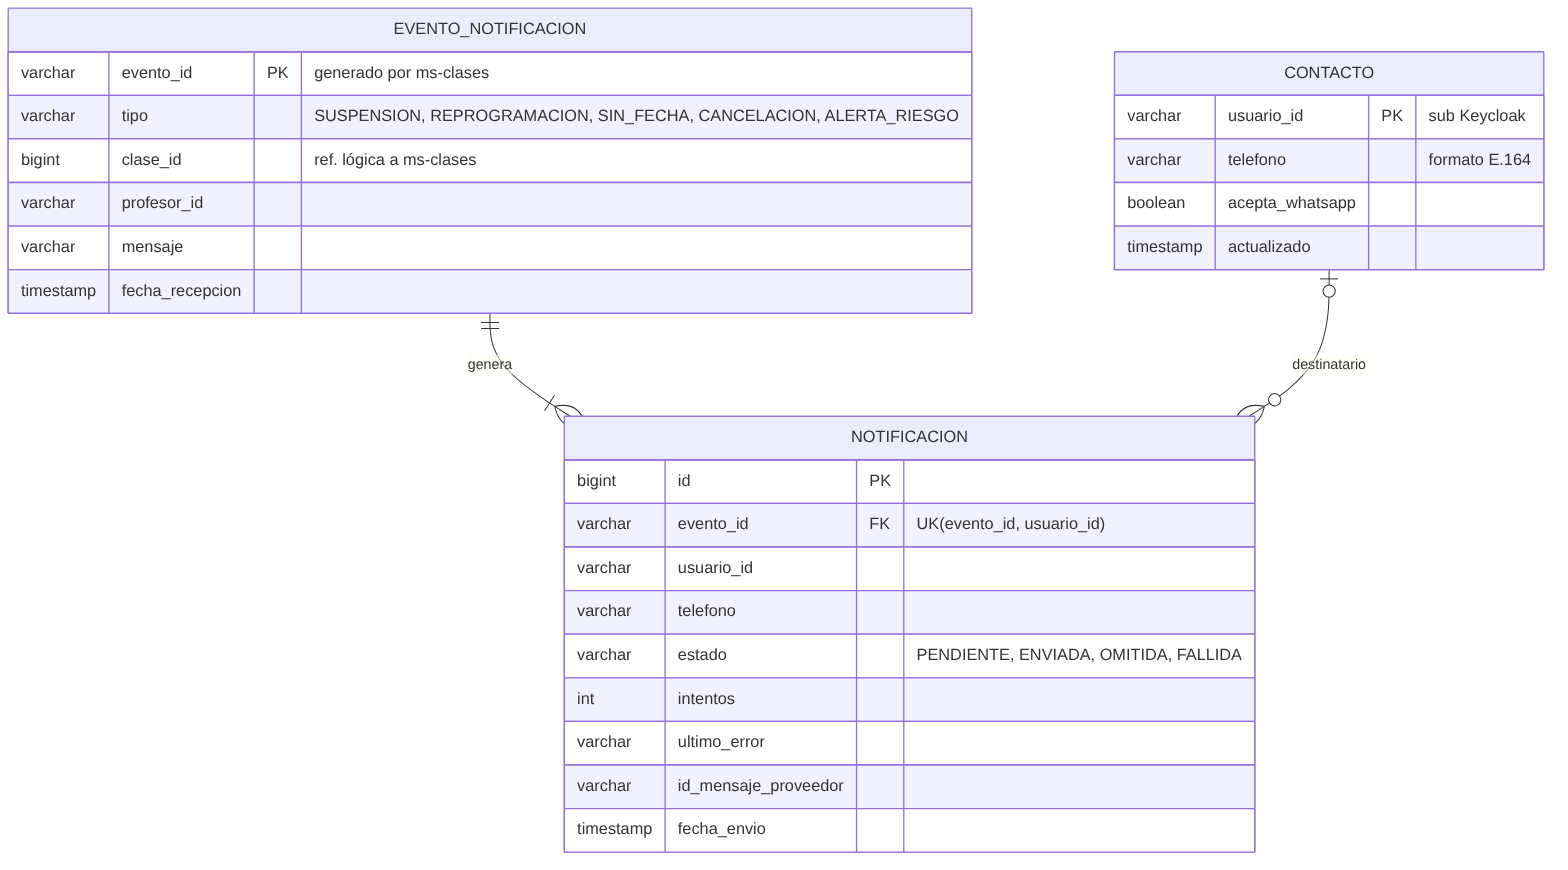
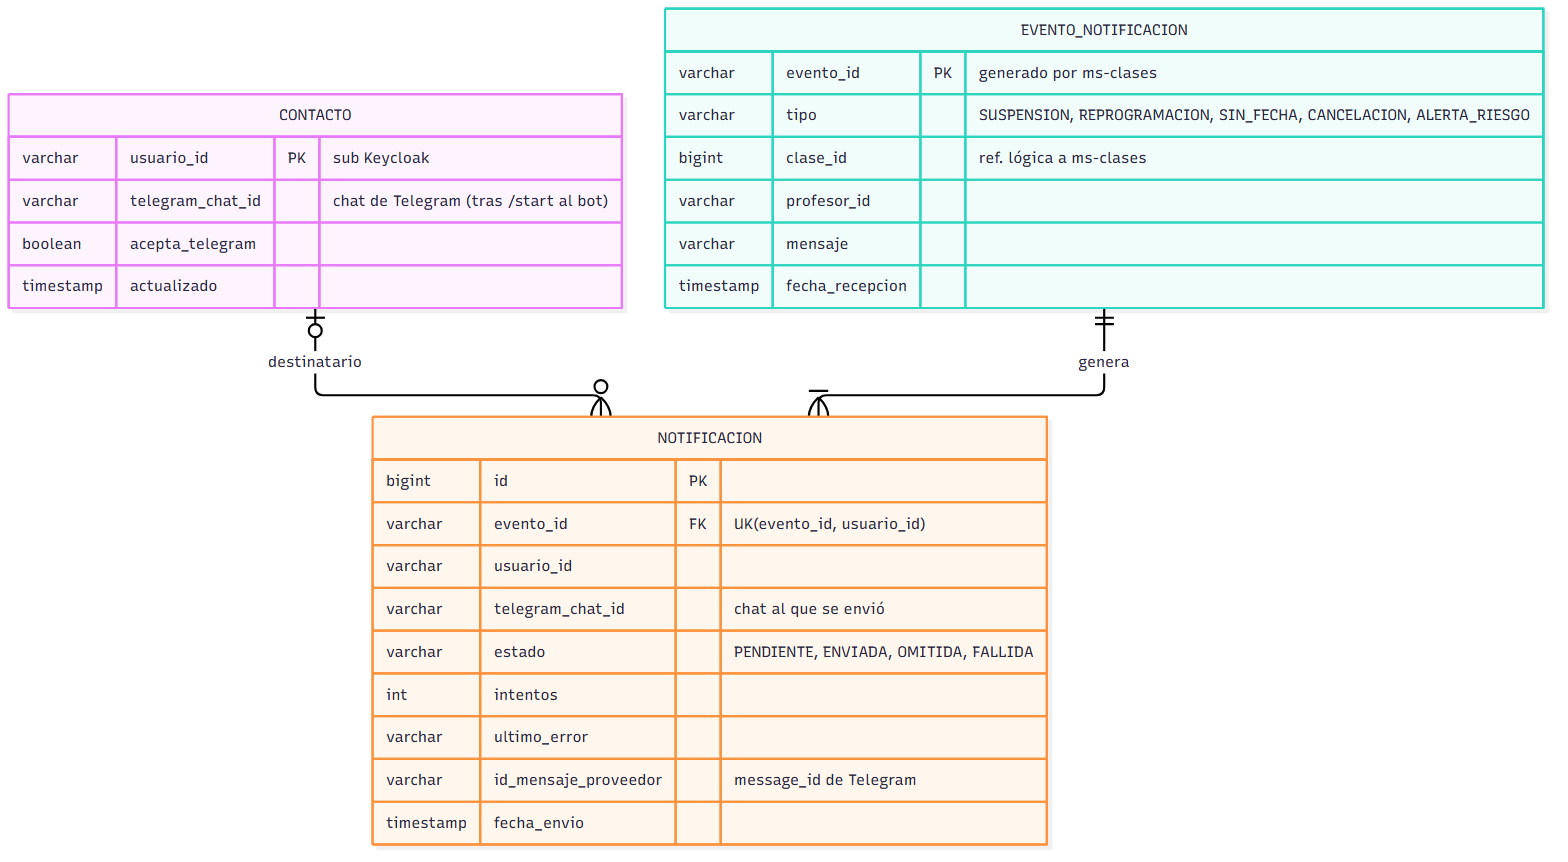
Diagramas y documentación al día
- C1 y C2: Telegram Bot API; C2 con los dos contenedores de PostgreSQL.
- Estados: transiciones que faltaban (EN_RIESGO -> REPROGRAMADA, REPROGRAMADA -> REPROGRAMADA, SUSPENDIDA -> CANCELADA).
- DER clases sin inscripcion.fecha_baja (no existe); DER notificaciones con el chat de Telegram.
- Propuesta, README, contratos y cumplimiento actualizados; PNG regenerados.

diff --git a/README.md b/README.md
@@ -14,7 +14,7 @@ La propuesta completa (funcionalidades F01–F15, reglas RN01–RN16, diagramas 
 | `ms-actividades/` | Catálogo: tipos de actividad y criterios climáticos, espacios, ejercicios | 8081 |
 | `ms-clases/` | Clases, inscripciones, estados, historial; orquesta la evaluación climática | 8082 |
 | `ms-clima/` | Pronóstico de Open-Meteo y evaluación APTA / EN_RIESGO / NO_APTA | 8083 |
-| `ms-notificaciones/` | Contactos, consentimiento y avisos por WhatsApp | 8084 |
+| `ms-notificaciones/` | Contactos, consentimiento y avisos por Telegram | 8084 |
 | `infra/` | Script de bases de PostgreSQL y realm de Keycloak | — |
 | `postman/` | Colección y entorno de Postman | — |
 
@@ -42,7 +42,10 @@ Para empezar de cero (borra las bases): `docker compose down -v`.
 1. Abrir la carpeta del repo en IntelliJ (detecta el `pom.xml` raíz e importa los 6 proyectos).
 2. Instalar la librería común en tu `.m2`: en la ventana *Maven* → `climafit-commons` → *Lifecycle* → `install`.
    Hay que repetirlo cada vez que cambia `climafit-commons`.
-3. Levantar solo la infraestructura: `docker compose up -d postgres keycloak`.
+3. Levantar solo la infraestructura, con los puertos de las bases abiertos para tu máquina:
+   `docker compose -f docker-compose.yml -f docker-compose.dev.yml up -d postgres postgres-actividades keycloak`.
+   `actividades_db` queda en `localhost:5433` y las demás bases en `localhost:5432`. En el despliegue normal
+   (`docker compose up`) las bases no tienen puerto publicado: solo se llega desde la red interna de Docker.
 4. Ejecutar la clase `*Application` del servicio. Los valores por defecto de su `application.yml` apuntan a `localhost`.
 
 Si querés probar tu servicio detrás del gateway, frená su contenedor (`docker compose stop ms-xxx`) y levantá el gateway desde el IDE también.
@@ -66,45 +69,35 @@ curl -s -d grant_type=password -d client_id=climafit-api -d username=profe1 -d p
 
 y usarlo como `Authorization: Bearer <access_token>`.
 
-## WhatsApp con Twilio
+## Avisos por Telegram
 
-`ms-notificaciones` tiene dos proveedores, que se eligen con `WHATSAPP_PROVEEDOR` en el `.env`:
+`ms-notificaciones` tiene dos proveedores, que se eligen con `TELEGRAM_PROVEEDOR` en el `.env`:
 
 - `log` (por defecto): no manda nada, escribe el mensaje en el log y la notificación queda `ENVIADA`. Es el que se usa en la demo.
-- `twilio`: manda el aviso real por el sandbox de WhatsApp de Twilio.
+- `bot`: manda el aviso real con la Bot API de Telegram (`sendMessage`).
 
-### Estado actual (16/11/2026): la cuenta Trial no puede enviar
+Antes los avisos iban por WhatsApp. Se cambió a Telegram porque el proveedor de WhatsApp, con una cuenta de prueba, rechazaba todos los envíos de texto libre. La Bot API de Telegram es gratuita y no tiene ese límite.
 
-Se probó la integración de punta a punta y el código funciona: al cancelar una clase, ms-clases le pide el aviso a ms-notificaciones, que llama a Twilio, reintenta 3 veces y deja la notificación `FALLIDA` con el error de Twilio en `ultimo_error`.
+**Diferencia importante con WhatsApp:** un bot de Telegram no puede escribirle a un número de teléfono ni iniciar una conversación. Solo puede enviar a un `chat_id`, y únicamente si el usuario antes le mandó `/start`. Por eso el contacto guarda `telegramChatId` en lugar de un teléfono.
 
-Twilio rechaza todos los envíos de una cuenta **Trial**:
+### Pasos para el envío real
 
-| Prueba | Respuesta de Twilio |
-|---|---|
-| Texto libre desde el sandbox, incluso con la ventana de 24 h abierta | `21654 ContentSid Required` |
-| Plantilla de ejemplo `HXb5b6…` ("Your appointment is coming up…") | `21655 The ContentSid is Invalid` |
-| El botón *Send template message* de la propia consola de Twilio | `21655 The ContentSid is Invalid` |
-
-Solo llegan las respuestas automáticas del sandbox ("You are all set", "You said: …"). Para que llegue el aviso real hay que pasar la cuenta a paga (Upgrade). No hace falta tocar código.
-
-### Pasos para usar Twilio (con cuenta paga)
-
-1. En el `.env` completar los valores (el SID y el token están en la página principal de la consola de Twilio):
+1. En Telegram, hablar con **@BotFather**, mandar `/newbot` y seguir los pasos. Al final entrega el token del bot (algo como `123456789:AA...`).
+2. En el `.env`:
    ```env
-   WHATSAPP_PROVEEDOR=twilio
-   TWILIO_ACCOUNT_SID=AC...
-   TWILIO_AUTH_TOKEN=...
-   TWILIO_FROM=+14155238886
+   TELEGRAM_PROVEEDOR=bot
+   TELEGRAM_BOT_TOKEN=123456789:AA...
    ```
-   El número va en formato E.164, sin espacios y sin el prefijo `whatsapp:` (lo agrega el código).
-2. Recrear el servicio para que tome las variables (con `restart` no alcanza):
+   El token es un secreto: va solo en el `.env`, nunca en el código ni en el repo.
+3. Recrear el servicio para que tome las variables (con `restart` no alcanza):
    `docker compose up -d --force-recreate ms-notificaciones`
-3. Desde el celular que va a recibir los avisos, mandar por WhatsApp `join <código>` al +1 415 523 8886. El código está en la consola, en *Messaging → Try it out → Send a WhatsApp message*. La unión dura 72 h.
-4. Antes de probar, mandar cualquier mensaje desde ese celular al sandbox: así se abre la ventana de 24 h en la que se puede mandar texto libre.
-5. Registrar el teléfono del alumno con `PUT /api/contactos/mio`. Los celulares argentinos llevan el 9: `{"telefono": "+5493511234567", "aceptaWhatsapp": true}`.
-6. Inscribir al alumno a una clase y cancelarla o reprogramarla como profesor. Para seguir el envío: `docker compose logs -f ms-notificaciones`. Si salió bien aparece `WhatsApp enviado por Twilio a ... (sid SM...)`.
+4. Desde el Telegram de quien va a recibir los avisos, abrir el bot y mandarle `/start`.
+5. Averiguar su `chat_id`. En un chat privado es el id numérico del usuario: lo responde **@userinfobot**. También aparece en
+   `https://api.telegram.org/bot<TOKEN>/getUpdates` después del `/start`, en `result[].message.chat.id`.
+6. Registrarlo con `PUT /api/contactos/mio`: `{"telegramChatId": "123456789", "aceptaTelegram": true}`.
+7. Inscribir al alumno a una clase y cancelarla o reprogramarla como profesor. Para seguir el envío: `docker compose logs -f ms-notificaciones`. Si salió bien aparece `Telegram enviado al chat ... (message_id ...)`.
 
-No usar el entorno *Try out WhatsApp* (+1 737 250 8034, código `join twilio-trial`): solo acepta plantillas predefinidas, nunca texto libre.
+Si el usuario nunca le escribió al bot o lo bloqueó, Telegram responde 403. La notificación se reintenta 3 veces y queda `FALLIDA` con el motivo en `ultimo_error`, sin el token.
 
 ## Convenciones
 
@@ -112,5 +105,7 @@ No usar el entorno *Try out WhatsApp* (+1 737 250 8034, código `join twilio-tri
   `ms-actividades` / tipos de actividad es el ejemplo de referencia.
 - **Errores:** lanzar `NegocioException("CODIGO", "mensaje")` (409 por defecto) o sus subclases de `climafit-commons`. El formato de respuesta lo arma la librería.
 - **Seguridad:** las reglas por rol van con `@PreAuthorize`. Los controles de propiedad (RN05, RN08) se hacen en el servicio con `UsuarioActual`.
+  Si un endpoint nuevo tiene un rol distinto de "cualquier autenticado", agregar también la regla gruesa en
+  `api-gateway/.../seguridad/SeguridadGatewayConfig.java` y su caso en `SeguridadGatewayTest`. Las rutas `/internal/**` el gateway las bloquea solo (404).
 - **Base de datos:** solo con migraciones Flyway (`src/main/resources/db/migration/V<n>__descripcion.sql`). Una migración ya subida no se edita: se agrega una nueva.
 - **Git:** nadie sube directo a `main`. Cada tarea va en una rama (`feature/ms-clima-evaluacion`) con un Pull Request que revisa otro integrante.

diff --git a/docs/cumplimiento.md b/docs/cumplimiento.md
@@ -28,9 +28,9 @@ Estados: ✅ verificado · ⚠ funciona pero con una observación · ⏳ pend
 | Keycloak con OIDC, JWT y roles | Persona 1 | Carpeta 00: tokens de los 6 usuarios; token de servicio entre microservicios | ✅ |
 | API pública externa (Open-Meteo) en la decisión de negocio | Persona 4 | Carpeta 10: pronóstico real en modo REAL | ✅ |
 | Librería `climafit-commons` en `.m2`, usada por 4 microservicios | Persona 2 | Dependencia en los 4 `pom.xml`; Dockerfiles multi-etapa que la instalan antes de compilar | ✅ |
-| PostgreSQL, una base por servicio | Persona 1 | `infra/postgres/init.sh`: `actividades_db`, `clases_db`, `notificaciones_db`, `keycloak_db`, con un usuario por base | ✅ |
+| PostgreSQL, una base por servicio | Persona 1 | `infra/postgres/init.sh` crea un usuario por base, dueño solo de ella. En `postgres-actividades`: `actividades_db`. En `postgres`: `clases_db`, `notificaciones_db` y `keycloak_db` | ⏳ volver a verificar con dos contenedores |
 | APIs REST documentadas con OpenAPI | Cada dueño; Persona 1 el Swagger unificado | `/v3/api-docs` de cada servicio: 39 endpoints (15 + 15 + 5 + 4) | ⚠ ver observación 2 |
-| Despliegue completo con Docker Compose | Persona 1 | CP7: los 7 contenedores quedan `healthy` sin pasos manuales | ✅ |
+| Despliegue completo con Docker Compose | Persona 1 | CP7: los 8 contenedores (con `postgres-actividades`) quedan `healthy` sin pasos manuales | ⏳ volver a verificar con dos contenedores |
 
 ## 2. Reglas de negocio
 
@@ -49,7 +49,7 @@ Estados: ✅ verificado · ⚠ funciona pero con una observación · ⏳ pend
 | RN11 Decisión según el resultado | Persona 4 | ms-clases: 6 tests `rn11_*` (`EvaluacionServiceTest`) | 06 y 07 | ✅ |
 | RN12 Clase en riesgo | Persona 4 | ms-clases: 3 tests `rn12_*` (`DecisionRiesgoServiceTest`) | 07, y 09 con 409 `CLASE_NO_EN_RIESGO` | ✅ |
 | RN13 Búsqueda de nuevo día | Persona 4 | ms-clases: 10 tests `rn13_*` (`ReprogramacionServiceTest`) | 06 (día siguiente) y 08 (sin día viable) | ✅ |
-| RN14 Consentimiento para WhatsApp | Persona 1 | ms-notificaciones: `rn14SeEnviaAlQueAceptoYSeOmiteAlQueNo`, `omiteSiElAlumnoNoAceptoWhatsapp`, `omiteSiElUsuarioNuncaRegistroSuContacto` | 06: notificación OMITIDA del alumno 2 | ✅ |
+| RN14 Consentimiento para Telegram | Persona 1 | ms-notificaciones: `rn14SeEnviaAlQueAceptoYSeOmiteAlQueNo`, `omiteSiElAlumnoNoAceptoTelegram`, `omiteSiElUsuarioNuncaRegistroSuContacto` | 06: notificación OMITIDA del alumno 2 | ✅ |
 | RN15 Notificación única por evento | Persona 1 | ms-notificaciones: test de integración `rn15ElMismoEventoRepetidoNoDuplicaNotificaciones` | 06: sin duplicados | ✅ |
 | RN16 Falla de servicios | Personas 1, 3 y 4 | ms-clases: 10 tests `rn16_*`; ms-clima: 2 tests `rn16_*`; ms-notificaciones: `despuesDeTresFallasQuedaFallida`, `reintentaYSiElSegundoIntentoFuncionaQuedaEnviada` | 05: evaluación FALLIDA | ✅ |
 
@@ -76,8 +76,10 @@ Estados: ✅ verificado · ⚠ funciona pero con una observación · ⏳ pend
    responde 401 y `api-gateway` no incluye springdoc (plan, tarea 1.4). CP7 lo pide en su resultado esperado.
 3. **Nombres de tests de ms-notificaciones** (Persona 1). El plan pide `rn14_...`; hoy son `rn14Se...` o no
    llevan el código de la regla. Funcionan, pero conviene renombrarlos para que se encuentren por regla.
-4. **Envío real por Twilio** (Persona 1). Solo se verificó el proveedor `log`. Falta la prueba con
-   `WHATSAPP_PROVEEDOR=twilio` al teléfono de un integrante (sandbox de Twilio).
+4. **Envío real por Telegram** (Persona 1). El canal pasó de WhatsApp a Telegram (Bot API): la cuenta de prueba
+   del proveedor de WhatsApp rechazaba todos los envíos. El proveedor `bot` tiene tests contra un servidor que imita la Bot API, pero
+   falta la prueba real con `TELEGRAM_PROVEEDOR=bot` al Telegram de un integrante (pasos en el README).
+   También hay que avisar a la cátedra del cambio de canal (propuesta, F14 y RN14).
 5. **Aviso a la cátedra.** El DER cambió respecto de la propuesta entregada: `tipo_actividad.lluvia_max_mm_hora`,
    `evaluacion_climatica.precipitacion_mm` y 5 actividades iniciales en lugar de 3. Los diagramas del
    repositorio ya están actualizados; falta avisar (documento de alcance de la cátedra, sección 9).

diff --git a/docs/contratos.md b/docs/contratos.md
@@ -17,7 +17,8 @@ de la propuesta**.
 | ms-clases | 8082 | 8080 | no |
 | ms-clima | 8083 | 8080 | no |
 | ms-notificaciones | 8084 | 8080 | no |
-| PostgreSQL | — | 5432 | 5432 |
+| PostgreSQL (`postgres`: clases, notificaciones, keycloak) | — | 5432 | no (5432 en `127.0.0.1` con `docker-compose.dev.yml`) |
+| PostgreSQL (`postgres-actividades`: actividades) | — | 5432 | no (5433 en `127.0.0.1` con `docker-compose.dev.yml`) |
 
 - Dentro de Docker todos los servicios escuchan en **8080** (`SERVER_PORT` en `docker-compose.yml`).
   Las URLs entre servicios llegan por variables de entorno (`MS_ACTIVIDADES_URL`, `MS_CLIMA_URL`,
@@ -37,15 +38,16 @@ de la propuesta**.
 
 ## 3. Errores
 
-Formato único (lo arma `climafit-commons`): `status`, `codigo`, `mensaje`, `ruta`, `correlationId`, `fecha`.
+Formato único (lo arma `climafit-commons`; el gateway lo replica en `gateway.error.RespuestasError`):
+`status`, `codigo`, `mensaje`, `ruta`, `correlationId`, `fecha`.
 
 | Código | Status | Quién lo emite |
 |---|---|---|
-| `DATOS_INVALIDOS` | 400 | commons (validación) y servicios |
+| `DATOS_INVALIDOS` | 400 | commons (validación), servicios y gateway (ruta con `..` o `%2F`) |
 | `NO_AUTENTICADO` | 401 | gateway y commons, con `WWW-Authenticate: Bearer` |
-| `ACCESO_DENEGADO` | 403 | gateway y commons (RN05, RN08) |
-| `NO_ENCONTRADO` | 404 | commons (`RecursoNoEncontradoException`) |
-| `SERVICIO_NO_DISPONIBLE` | 503 | commons (cliente HTTP) y ms-clima |
+| `ACCESO_DENEGADO` | 403 | gateway (rol por ruta y método) y commons (RN05, RN08) |
+| `NO_ENCONTRADO` | 404 | commons (`RecursoNoEncontradoException`) y gateway (ruta inexistente o `/internal/**`) |
+| `SERVICIO_NO_DISPONIBLE` | 503 | commons (cliente HTTP), ms-clima y gateway (microservicio caído o sin respuesta en 60 s) |
 | `CUPO_COMPLETO` | 409 | ms-clases, RN01 |
 | `CLASE_NO_DISPONIBLE` | 409 | ms-clases, RN02 |
 | `YA_INSCRIPTO` | 409 | ms-clases, RN02 |
